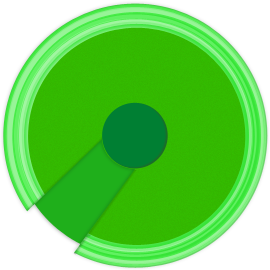
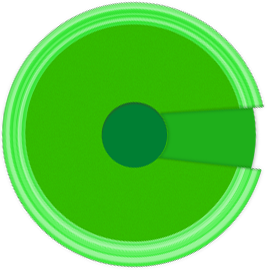
working gun

diff --git a/Classes/BWShooter.m b/Classes/BWShooter.m
@@ -8,12 +8,91 @@
 
 #import "BWShooter.h"
 
+@interface BWShooter(PrivateMethods)
+- (void)tap:(UITapGestureRecognizer *)tapGesture;
+- (void)touch:(UITouch *)touch;
+- (void)pan:(UIPanGestureRecognizer *)panGesture;
+@end
+
 @implementation BWShooter
 - (id)initWithFrame:(CGRect)frame {
     if( (self = [super initWithFrame:frame]) ) {
         self.image = [UIImage imageNamed:@"GreenShooter.png"];
         self.userInteractionEnabled = YES;
+        
+        UIPanGestureRecognizer *pan = [[[UIPanGestureRecognizer alloc] initWithTarget:self action:@selector(pan:)] autorelease];
+        [self addGestureRecognizer:pan];        
     }
     return self;
+}
+
+- (void)touchesBegan:(NSSet *)touches withEvent:(UIEvent *)event {
+    UITouch *touch = [touches anyObject];
+    [self touch:touch];
+}
+@end
+
+@implementation BWShooter(PrivateMethods)
+- (void)touch:(UITouch *)touch {
+    CGPoint touchPoint = [touch locationInView:self];
+    CGPoint touchPointFromCenter = CGPointMake(touchPoint.x - width/2.0, touchPoint.y - height/2.0);
+    
+    CGFloat touchedDegrees = DEGREES(cpvtoangle(touchPointFromCenter));
+    if( touchedDegrees < 0 )
+        touchedDegrees = 180 + (180+touchedDegrees);
+    
+    CGFloat bodyDegrees = DEGREES(self.body->a);
+    if( bodyDegrees < 0 )
+        bodyDegrees = 180 + (180+bodyDegrees);
+    
+    CGFloat final = touchedDegrees + bodyDegrees;
+    cpBodySetAngle(self.body, RADIANS(final) );
+}
+
+- (void)tap:(UITapGestureRecognizer *)tapGesture {
+    CGPoint touchPoint = [tapGesture locationInView:self];
+    CGPoint touchPointFromCenter = CGPointMake(touchPoint.x - width/2.0, touchPoint.y - height/2.0);
+
+    CGFloat touchedDegrees = DEGREES(cpvtoangle(touchPointFromCenter));
+    if( touchedDegrees < 0 )
+        touchedDegrees = 180 + (180+touchedDegrees);
+    
+    CGFloat bodyDegrees = DEGREES(self.body->a);
+    if( bodyDegrees < 0 )
+        bodyDegrees = 180 + (180+bodyDegrees);
+    
+    CGFloat final = touchedDegrees + bodyDegrees;
+    cpBodySetAngle(self.body, RADIANS(final) );
+}
+
+- (void)pan:(UIPanGestureRecognizer *)panGesture {
+    panCounter++;
+    
+    if( panCounter % 3 != 0 )
+        return;
+    
+    panCounter = 0;
+    
+    CGPoint touchPoint = [panGesture locationInView:self];
+    
+    CGPoint touchPointFromCenter = CGPointMake(touchPoint.x - width/2.0, touchPoint.y - height/2.0);
+    
+    CGFloat touchedDegrees = DEGREES(cpvtoangle(touchPointFromCenter));
+    if( touchedDegrees < 0 )
+        touchedDegrees = 180 + (180+touchedDegrees);
+    
+    if( touchedDegrees > 360 )
+        touchedDegrees -= 360;
+    
+    CGFloat bodyDegrees = DEGREES(self.body->a);
+    if( bodyDegrees < 0 )
+        bodyDegrees = 180 + (180+bodyDegrees);
+
+    if( bodyDegrees > 360 )
+        bodyDegrees -= 360;
+    
+    CGFloat final = touchedDegrees + bodyDegrees;
+    NSLog(@"degrees: %f = %f + %f", final, touchedDegrees, bodyDegrees);
+    cpBodySetAngle(self.body, RADIANS(final) );
 }
 @end

diff --git a/Classes/ViewController.m b/Classes/ViewController.m
@@ -50,8 +50,8 @@ static NSString *borderType = @"borderType";
     cpSpaceAddCollisionHandler(space, 0, 1, NULL, NULL, &postSolveCollision, NULL, NULL);
 
 
-    BWShooter *shooter = [[[BWShooter alloc] initWithFrame:CGRectMake(0, 0, 270, 270)] autorelease];
-    [shooter setStaticBody:floorBody];
+    BWShooter *shooter = [[[BWShooter alloc] initWithFrame:CGRectMake(500, 500, 270, 270)] autorelease];
+    //[shooter setStaticBody:floorBody position:CGPointMake(500, 500)];
 //    shooter.center = CGPointMake(0, 0);
     cpSpaceAddShape(space, shooter.shape);
     [self.view addSubview:shooter];

diff --git a/Classes/Chipmunk/chipmunk.h b/Classes/Chipmunk/chipmunk.h
@@ -76,6 +76,9 @@ void cpMessage(const char *condition, const char *file, int line, int isError, i
 	#define cpfree free
 #endif
 
+#define RADIANS(degrees) ((degrees * (float)M_PI) / 180.0f)
+#define DEGREES(radians) (radians * (180.0f / (float)M_PI))
+
 typedef struct cpArray cpArray;
 typedef struct cpHashSet cpHashSet;
 

diff --git a/Classes/BWShooter.h b/Classes/BWShooter.h
@@ -9,6 +9,8 @@
 #import <Foundation/Foundation.h>
 #import "UIImageViewCircleBody.h"
 
-@interface BWShooter : UIImageViewCircleBody
+@interface BWShooter : UIImageViewCircleBody {
+    NSUInteger panCounter;
+}
 
 @end

diff --git a/Classes/UIImageViewCircleBody.m b/Classes/UIImageViewCircleBody.m
@@ -32,7 +32,7 @@
     return self;
 }
 
-- (void)setStaticBody:(cpBody *)staticBody {
+- (void)setStaticBody:(cpBody *)staticBody position:(CGPoint)position {
 
     body = staticBody;
     

diff --git a/Classes/UIImageViewCircleBody.h b/Classes/UIImageViewCircleBody.h
@@ -13,5 +13,5 @@
     
 }
 
-- (void)setStaticBody:(cpBody *)staticBody;
+- (void)setStaticBody:(cpBody *)staticBody position:(CGPoint)position;
 @end
